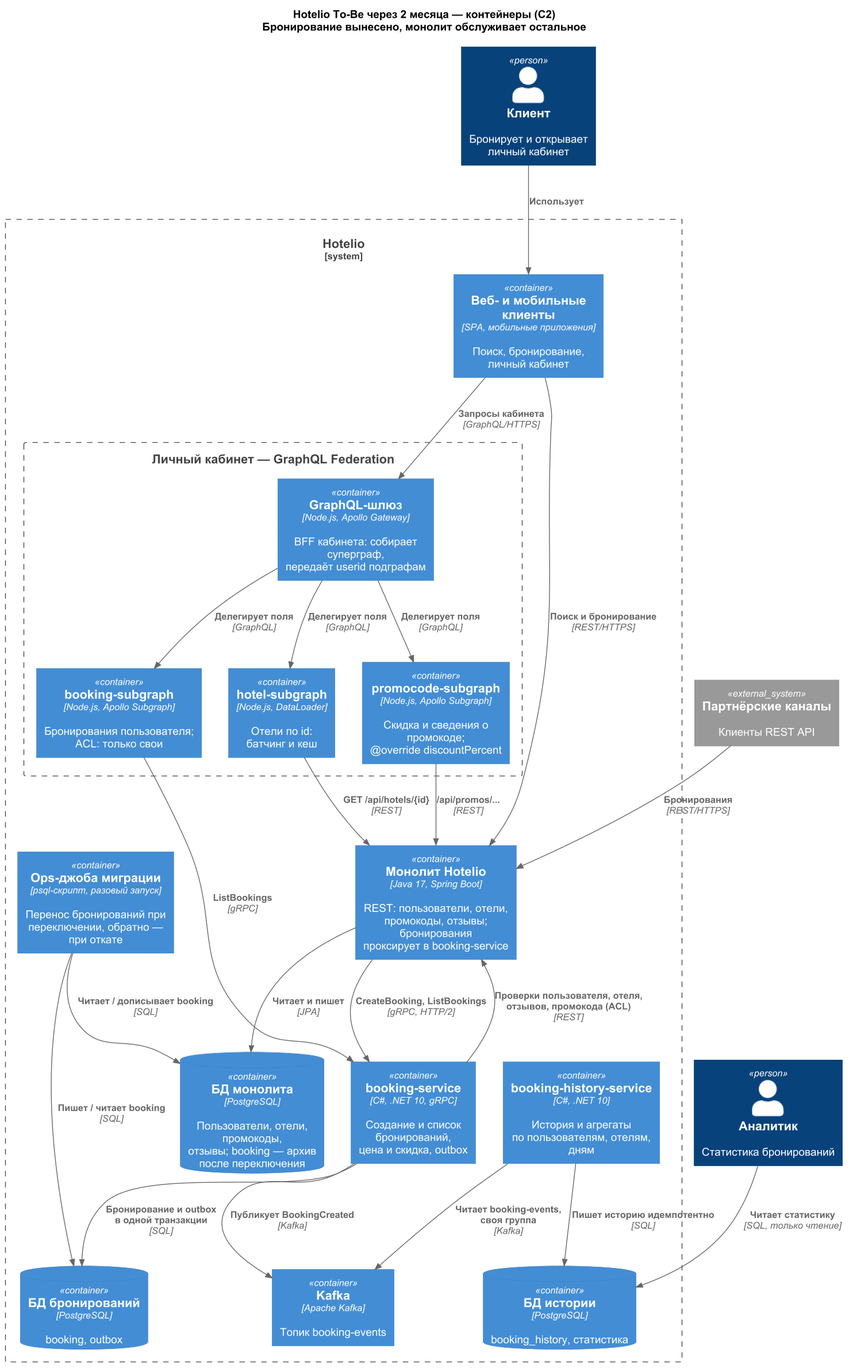
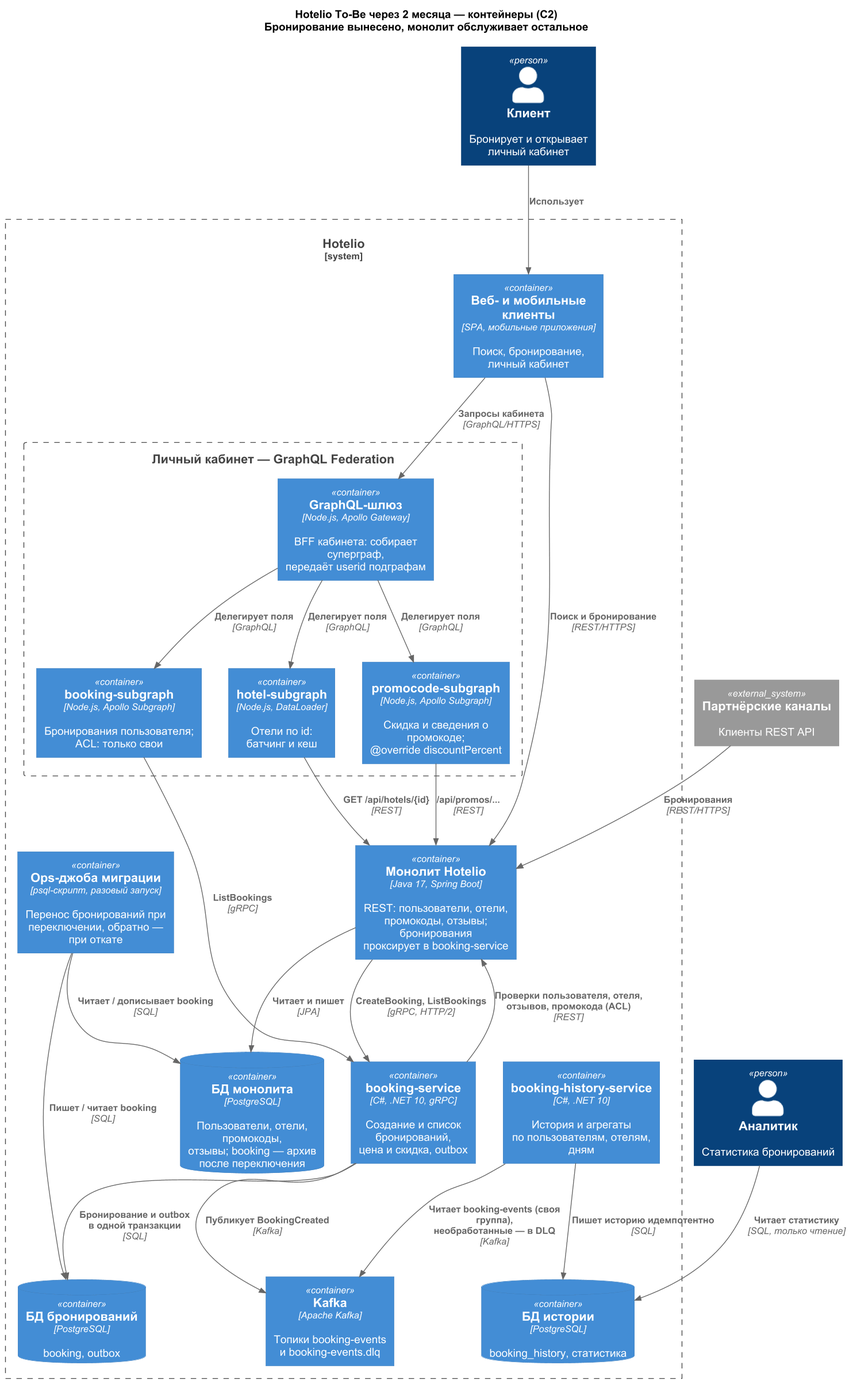
ADR и README задания 2: DLQ в Kafka, очистка outbox, что чем проверяется
DLQ-топик — основной вариант, таблица — альтернатива; записана цена
выбора. Для полного списка бронирований — отдельный административный
метод с проверкой роли и пагинацией. В README задания 2 — таблица
проверок: что проверяем, чем и где результат. На схемах контейнеров —
DLQ-топик.

diff --git a/tasks/task2/results/README.md b/tasks/task2/results/README.md
@@ -20,6 +20,8 @@ docker compose up -d --build
 docker compose run --rm --build regress   # регресс курса через монолит с прокси
 ```
 
+Если стенд поднимали до 01.11.2026 и в таблице `dead_letter` сервиса истории остались сообщения, миграция `0002` не даст сервису запуститься: разберите их или поднимите стенд с чистыми томами (`docker compose down -v`).
+
 Схемы новых БД создают сервисы `booking-schema` и `history-schema` (команда `migrate` из образов сервисов) до запуска самих сервисов. Пароли — демо-значения стенда, их можно переопределить переменными окружения или файлом `.env`.
 
 На чистом стенде переносить нечего, поэтому регресс сам загружает фикстуры в БД монолита и переносит их ops-джобой с флагом `--reset-target` (он очищает БД сервиса и нужен только тестовому стенду). Если остановить booking-service, тесты бронирования падают, как и ожидается в задании, а запросы бронирований через монолит возвращают 500 (test-log.txt, часть 3):
@@ -80,12 +82,12 @@ BOOKING_SERVICE_EXTERNAL_HOST=false docker compose up -d monolith
 
 ## Надёжность
 
-- Бронирование и событие пишутся одной транзакцией (transactional outbox), фоновый publisher отправляет событие в Kafka. Пока Kafka недоступна, событие ждёт в outbox и уходит после её восстановления ([delivery-check.log](delivery-check.log)). Событие, которое повтором не отправить (например, слишком большое), откладывается (`dead_lettered_at`) и не держит очередь; состояние очереди — `GET /diagnostics/outbox`. Outbox сделан без MassTransit и CAP: событие одно, а своя отправка — около 120 строк, которые легко прочитать и проверить тестами.
-- Kafka доставляет «хотя бы один раз», поэтому booking-history-service фиксирует смещение после записи в историю, а повтор отбрасывает по `event_id`. Сообщение, которое не удалось разобрать, сохраняется в таблицу `dead_letter` с причиной, и чтение топика продолжается.
+- Бронирование и событие пишутся одной транзакцией (transactional outbox), фоновый publisher отправляет событие в Kafka. Пока Kafka недоступна, событие ждёт в outbox и уходит после её восстановления ([delivery-check.log](delivery-check.log)). Событие, которое повтором не отправить (например, слишком большое), уходит в карантин (`dead_lettered_at`) и не держит очередь; состояние очереди — `GET /diagnostics/outbox`. Опубликованные события старше 14 дней удаляет отдельный фоновый процесс сервиса, пакетами по 1000 строк. Срок дольше, чем Kafka хранит `booking-events` (7 дней): после долгого простоя потребителя событие можно отправить заново из outbox. Outbox сделан без MassTransit и CAP: событие одно, а своя отправка — около 120 строк, которые легко прочитать и проверить тестами.
+- Kafka доставляет «хотя бы один раз», поэтому booking-history-service фиксирует смещение после записи в историю, а повтор отбрасывает по `event_id`. Сообщение, которое не удалось обработать (не разбирается или его данные отвергает PostgreSQL), уходит байт в байт в топик `booking-events.dlq`: причина и исходная позиция — в заголовках `dlq-reason`, `dlq-topic`, `dlq-partition`, `dlq-offset`. Смещение фиксируется после того, как Kafka приняла сообщение в DLQ, и чтение топика продолжается. Если недоступна сама БД истории (нет связи, неверный пароль, нет прав), смещение не фиксируется и сообщение читается снова.
 - Форматы REST монолита знает только модуль `Legacy` (Anti-Corruption Layer): он переводит ответы монолита в модель бронирования. Например, 404 на пользователя сервис считает неизвестным пользователем и отказывает с «User is inactive», 400 на промокод — отсутствием скидки, а пустой или неполный ответ — недоступностью монолита (gRPC `UNAVAILABLE`). На все обращения к монолиту при создании одного бронирования отведено 3 с; GET повторяется один раз, POST проверки промокода не повторяется, при потоке ошибок срабатывает circuit breaker (стандартный resilience handler .NET).
 - Схема БД создаётся SQL-миграциями (DbUp) командой `migrate` того же образа до запуска сервиса; пока схема не готова, `/ready` отвечает 503.
 - `x-request-id` передаётся в вызовы монолита, в событие и в историю (`correlation_id`).
-- Настройки приходят из окружения (`BOOKING_DB`, `HISTORY_DB`, `MONOLITH_URL`, `KAFKA_BOOTSTRAP`). В кластере заданий 4–5 нет Kafka, там публикация выключается `OUTBOX_PUBLISHER=disabled`; `FAULT_INJECTION_STATUS` нужен только для проверки fallback в задании 5.
+- Настройки приходят из окружения (`BOOKING_DB`, `HISTORY_DB`, `MONOLITH_URL`, `KAFKA_BOOTSTRAP`; необязательные `KAFKA_DLQ_TOPIC` — по умолчанию имя топика с суффиксом `.dlq` и `OUTBOX_RETENTION_DAYS` — по умолчанию 14). В кластере заданий 4–5 нет Kafka, там публикация выключается `OUTBOX_PUBLISHER=disabled`; `FAULT_INJECTION_STATUS` нужен только для проверки fallback в задании 5.
 
 ## Проверки
 
@@ -98,11 +100,23 @@ dotnet test --project tests/BookingService.Tests.csproj
 dotnet test --project integration-tests/BookingService.IntegrationTests.csproj
 
 cd ..
-./check-delivery.sh            # на поднятом стенде: остановка Kafka, повтор, dead letter
+./check-delivery.sh            # на поднятом стенде: остановка Kafka, повтор, DLQ
 ./migration/cutover-drill.sh   # учения по переключению; удаляет тома стенда
 ```
 
 В пайплайне задания 4 это джобы `test:unit` и `test:integration`, а регресс курса на этом стенде — `test:api`.
+
+Что чем проверяется. Набор шёл от того, что обещает ADR: поведение как в монолите, перевод ответов монолита, доставка «хотя бы один раз» без потерь и дублей, перенос с откатом. Интеграционные тесты проверены от обратного: если сломать то, что тест защищает (разделить транзакцию, убрать защиту от дублей, подтвердить смещение до записи, не отправить сообщение в DLQ или отправить туда событие при неверном пароле к БД истории, удалить при очистке неотправленное событие), он падает.
+
+| Что проверяем | Чем | Результат |
+| :- | :- | :- |
+| Правила как в монолите: порядок проверок, причины отказа, цена с VIP и промокодом | юнит-тесты `BookingRulesTests` | [unit-tests.txt](unit-tests.txt) |
+| Перевод ответов монолита: 404, 400, пустые и битые ответы; таймауты, повтор только GET, circuit breaker | юнит-тесты `MonolithContractTests` | [unit-tests.txt](unit-tests.txt) |
+| Контракт события: `eventId` по той же формуле, что в джобе переноса, разбор события историей, причины для DLQ, какие ошибки PostgreSQL и Kafka неисправимы | юнит-тесты `DeliveryTests` | [unit-tests.txt](unit-tests.txt) |
+| Outbox и доставка: одна транзакция, Kafka недоступна, повторная публикация, смещение после записи, БД истории недоступна или не пускает, DLQ байт в байт, DLQ не принял сообщение, дата со смещением, очистка | интеграционные тесты на PostgreSQL и Kafka | [integration-tests.txt](integration-tests.txt) |
+| Сценарии курса через монолит с прокси, причины отказа, история один раз | регресс курса, в пайплайне — `test:api` | [test-log.txt](test-log.txt) |
+| Остановка Kafka на стенде, повтор, DLQ | `check-delivery.sh` | [delivery-check.log](delivery-check.log) |
+| Перенос, переключение и откат | `migration/cutover-drill.sh` | [cutover-drill-log.txt](cutover-drill-log.txt) |
 
 ## Результаты
 
@@ -114,6 +128,6 @@ cd ..
 | `select * from bookings` из новой и старой системы | [bookings-old-vs-new.txt](bookings-old-vs-new.txt) |
 | README со стратегией миграции данных и To-Be | этот файл |
 | Листинг бронирований через REST монолита и gRPC сервиса | [listing-rest-vs-grpc.txt](listing-rest-vs-grpc.txt) |
-| `select *` из таблицы истории | [history.txt](history.txt): история, статистика, права аналитика, отставание группы |
+| `select *` из таблицы истории | [history.txt](history.txt): история, статистика, права аналитика, DLQ-топик, отставание группы |
 | Бины `bookingService` и `grpcBookingService` в логе монолита | [cutover-drill-log.txt](cutover-drill-log.txt): до переноса только `bookingService`, после включения прокси — оба |
-| Дополнительно | [cutover-drill-log.txt](cutover-drill-log.txt) — учения по переключению и откату, [delivery-check.log](delivery-check.log) — доставка при остановке Kafka и dead letter, [unit-tests.txt](unit-tests.txt) и [integration-tests.txt](integration-tests.txt) — 45 юнит-тестов и 6 интеграционных тестов .NET |
+| Дополнительно | [cutover-drill-log.txt](cutover-drill-log.txt) — учения по переключению и откату, [delivery-check.log](delivery-check.log) — доставка при остановке Kafka и DLQ, [unit-tests.txt](unit-tests.txt) и [integration-tests.txt](integration-tests.txt) — 52 юнит-теста и 11 интеграционных тестов .NET |

diff --git a/AI-LOG.md b/AI-LOG.md
@@ -27,7 +27,8 @@
 | Предложил покрыть тестом путь, который ИИ предлагал оставить без теста: БД истории недоступна дольше повторов | Тест проверяет, что событие не подтверждено и читается снова |
 | Спросил, почему пользователи и отели берутся у монолита по REST, а не из Kafka | Оставили REST, как требует задание: проверки при бронировании нужны на текущий момент |
 | Попросил проверить код на слишком подробные комментарии | Описания классов сокращены до одной-двух строк |
-| На вопросах на понимание уточнил ADR: предложил описать команду через Kafka с сагой как альтернативу, спросил, чем dead letter в таблице лучше топика, почему базовая линия — неделя и как называются показатели, предложил чинить в пределах окна, а отставание истории закрывать хотфиксом | В ADR-001 — две новые альтернативы, критерии отката с SLI (доля 5xx, p95) и ясное объяснение пустых дат |
+| На вопросах на понимание уточнил ADR: предложил описать команду через Kafka с сагой как альтернативу, спросил, почему базовая линия — неделя и как называются показатели, предложил чинить в пределах окна, а отставание истории закрывать хотфиксом; для полного списка бронирований — отдельный административный метод с проверкой роли и пагинацией | В ADR-001 — новые альтернативы, критерии отката с SLI (доля 5xx, p95), ясное объяснение пустых дат |
+| Спросил, чем dead letter в таблице лучше топика, и решил перевести его в DLQ-топик Kafka: при выносе остальных модулей это общий приём, переделывать не придётся; попросил фоновую очистку outbox, спросил про матрицу покрытия тестами | DLQ-топик `booking-events.dlq`, отдельный процесс очистки опубликованных событий, тесты на оба, таблица «что чем проверяется» в README задания 2 |
 | Возразил против значения переключателя прокси «по умолчанию» в docker-compose | Значение задано в `.env`, без неявной подстановки |
 
 ИИ предложил заменить свои предел запросов к монолиту и кеш отелей в GraphQL на `p-limit` и `lru-cache` — Святослав согласился.
@@ -35,7 +36,7 @@
 ## Что ИИ добавил сверх задания
 
 Эти приёмы предложил ИИ; большинства из них в уроках спринта нет:
-- transactional outbox и приём событий без дублей по `eventId` — событие не теряется и не удваивает статистику; dead letter — неразбираемое сообщение не останавливает чтение топика;
+- transactional outbox и приём событий без дублей по `eventId` — событие не теряется и не удваивает статистику; dead letter (по решению Святослава — DLQ-топик Kafka) — сообщение, которое не удалось обработать, не останавливает чтение топика;
 - resilience handler .NET (Polly) — сервис не добивает медленный монолит; DbUp и команда `migrate` — схема БД создаётся до запуска сервиса; сквозной `x-request-id` — один запрос виден во всех логах;
 - в GraphQL — кеш отелей и предел запросов к монолиту поверх DataLoader, ограничение глубины запроса и числа алиасов (graphql-armor) — длинные и тяжёлые запросы не перегружают монолит и шлюз;
 - в Istio — `failoverPriority` с outlier detection для fallback, Lua в EnvoyFilter для фича-флага, fortio для проверки circuit breaking;
